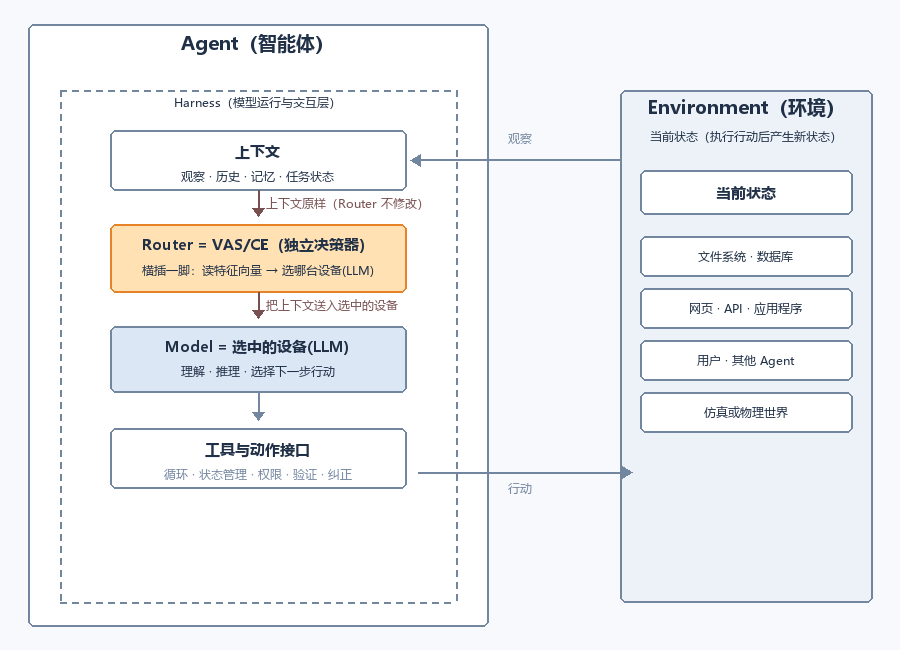
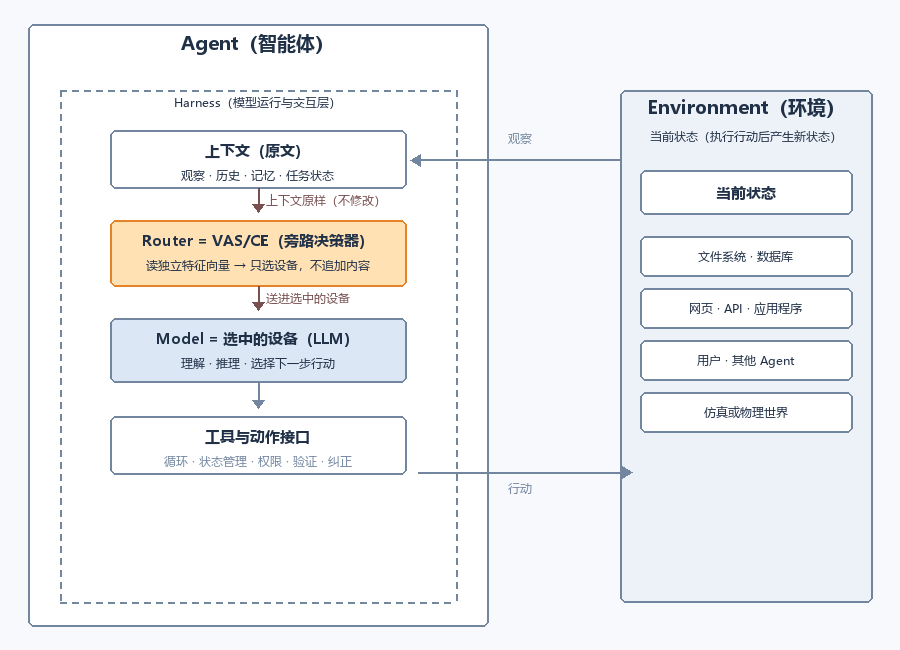
同步对齐实际流程的图和文档

Changed region(s): [[0.1244, 0.2154, 0.4667, 0.7385]]

diff --git a/docs/RSI-Router精读与对比.md b/docs/RSI-Router精读与对比.md
@@ -42,17 +42,22 @@
 
 ## 3.5 协作与数据流（参考 Agent 的 Model-Harness 闭环结构）
 
-**AgentRouter**——Router（VAS/CE）在「上下文 → LLM」之间**横插一脚**：读特征向量选设备，上下文**原样通过、不修改**：
+**AgentRouter**——Router 是「读独立特征向量的旁路决策器」，**只**回答"上下文喂给哪台设备"，上下文不动、不追加任何内容：
 
 ![AgentRouter harness 结构](../diagrams/agentrouter-harness.png)
 
-**RSI-Router**——在上下文的**后面追加**「子任务定义 + 识别规则 + 技能」，小模型 S 读"原文 + 追加"的完整上下文做路由 + 执行：
+**RSI-Router**——Router = 小模型 S + 查表，**既**回答"喂给 L 还是 S"（选模型），**又**往被选模型的输入里追加技能文本：
 
 ![RSI-Router harness 结构](../diagrams/rsirouter-harness.png)
 
-**一句话对比**（关键位置差异）：
-- AgentRouter：**上下文 → [Router 横插一脚 · 选设备] → LLM**——上下文不变，只换"喂给哪个 LLM"；
-- RSI-Router：**上下文 + [后面追加 子任务定义 / 技能] → LLM**——追加内容进上下文，小模型读全文。
+**准确对比**（两者都"选模型"，RSI 额外多"追加"）：
+
+| | 选模型（改接收者） | 追加内容（改输入） |
+|---|---|---|
+| AgentRouter | ✅ 独立网络读特征向量选设备 | ❌ 无 |
+| RSI-Router | ✅ 小模型 S 预测子任务 → 查表选 L/S | ✅ 追加技能文本 |
+
+关键：**两者都"选模型"**——差别是 AgentRouter 用「独立网络、读特征向量」选（多设备、不追加），RSI 用「小模型预测子任务 + 查表」选 L/S，且额外"往被选模型输入追加技能"。
 
 ---
 
